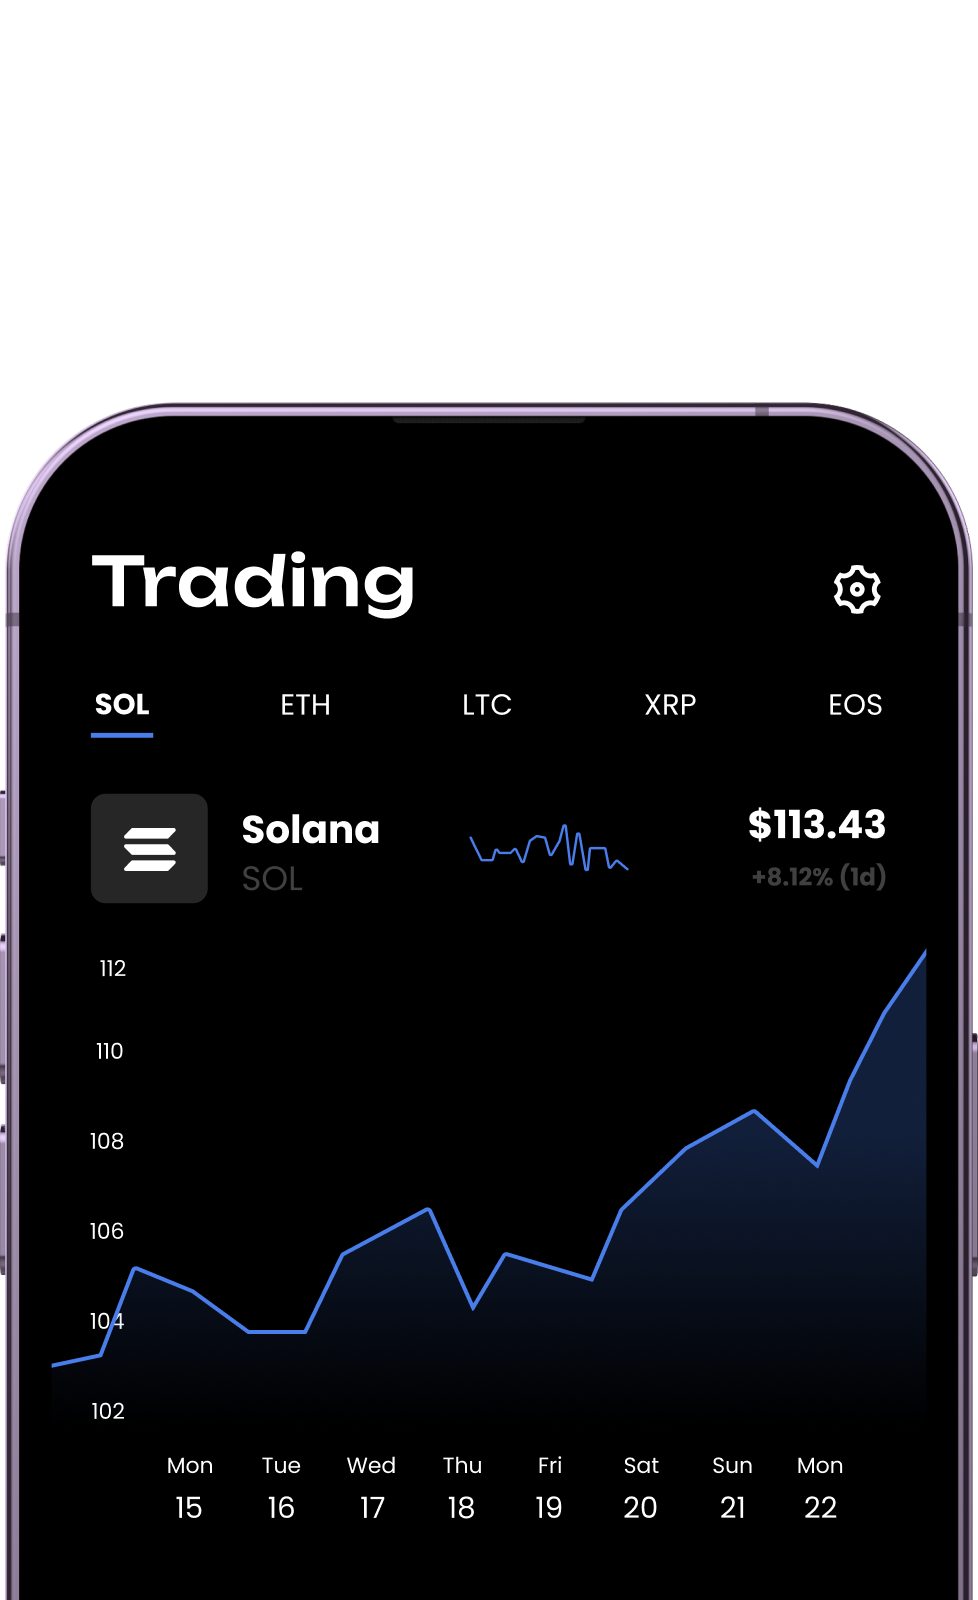
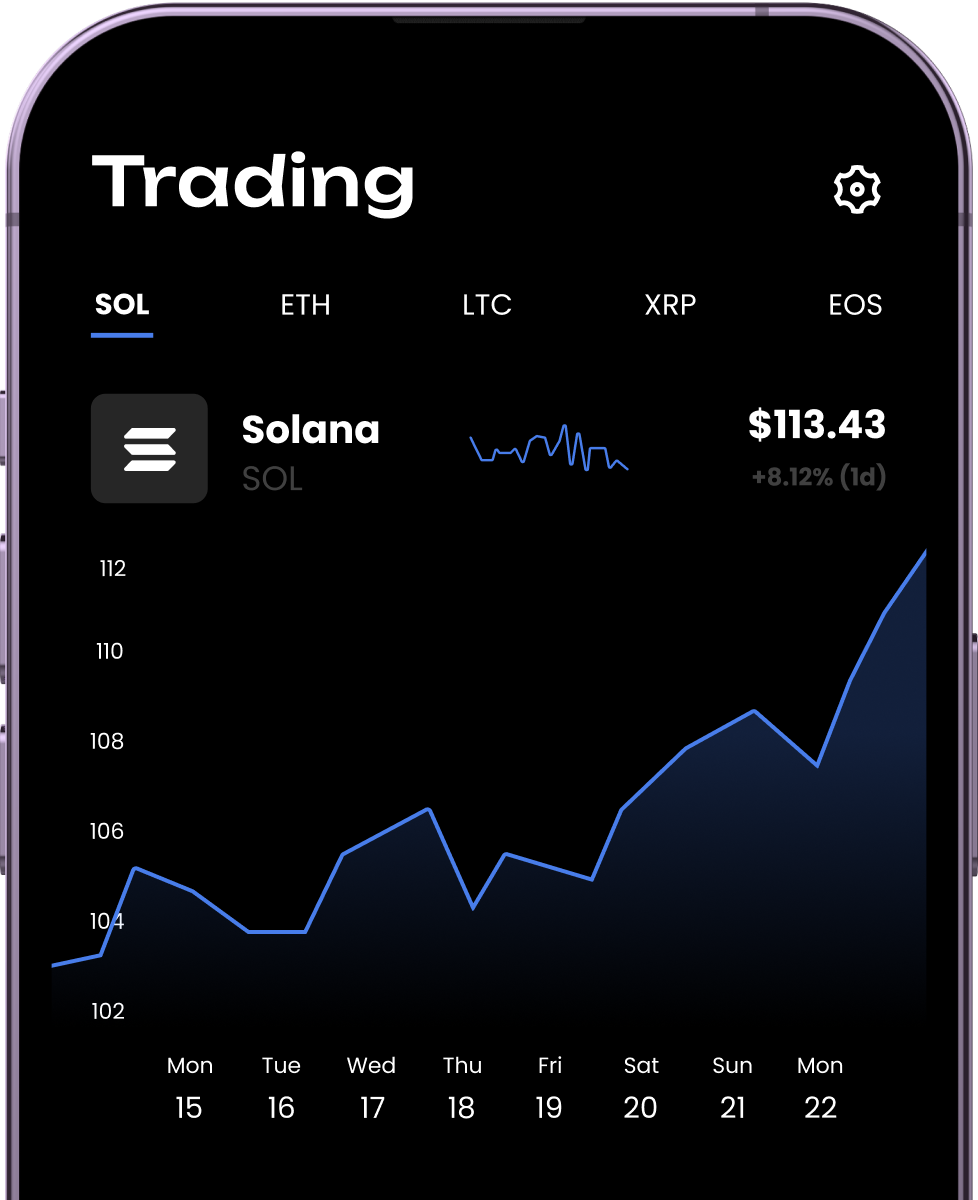
update: responsive for landing

diff --git a/src/app/(landing)/page.tsx b/src/app/(landing)/page.tsx
@@ -10,24 +10,47 @@ const RootPage: FC = () => {
     <div
       className={cn(
         "grid",
-        "grid-rows-[max-content_1fr]",
-        "max-w-[1200px]",
+        "mobile:grid-rows-[max-content_max-content]",
+        "not_mobile:grid-rows-[max-content_1fr]",
+        "mobile:content-center",
+        "max-w-[1280px]",
+        "items-between",
         "w-full",
         "mx-auto",
+        "px-[40px]",
         "pt-[60px]",
         "h-[100vh]",
         "overflow-hidden",
       )}
     >
-      <div className={cn("flex", "justify-between", "mb-[70px]")}>
-        <Image src="/images/logo.svg" alt="4X logo" width={798} height={66} />
+      <div
+        className={cn(
+          "flex",
+          "flex-nowrap",
+          "desktop:justify-between",
+          "not_desktop:flex-col",
+          "gap-[32px]",
+          "mb-[70px]",
+        )}
+      >
+        <div
+          className={cn(
+            "relative",
+            "w-full",
+            "max-w-[798px]",
+            "aspect-[798/66]",
+            "mobile:mx-auto",
+          )}
+        >
+          <Image src="/images/logo.svg" alt="4X logo" fill />
+        </div>
         <span
           className={cn(
-            "text-[2.4rem]",
-            "leading-[1.5]",
             "font-[family-name:var(--unbounded-text-font)]",
-            "text-[2.4rem]",
             "font-[200]",
+            "not_phone:text-[2.4rem]",
+            "phone:text-[1.6rem]",
+            "mobile:text-center",
             "leading-[1.6]",
             "text-white",
             "whitespace-pre-wrap",
@@ -36,20 +59,30 @@ const RootPage: FC = () => {
           {`Disrupting Forex Industry\nwith Web3 Tech`}
         </span>
       </div>
-      <div className={cn("flex", "h-full", "justify-between")}>
-        <div className={cn("relative", "w-[489px]", "h-full")}>
+      <div className={cn("flex", "h-full", "justify-between", "gap-[32px]")}>
+        <div className={cn("phone:hidden", "tablet:hidden")}>
           <Image
-            className={cn("object-cover", "object-bottom")}
+            className={cn(
+              "absolute",
+              "object-cover",
+              "object-top",
+              "w-full",
+              "max-w-[489px]",
+              "aspect-[489/598]",
+            )}
             src="/images/phone-mockup.png"
             alt="Phone mockup"
-            fill
+            width={489}
+            height={598}
           />
         </div>
         <div
           className={cn(
             "grid",
-            "max-w-[386px]",
-            "flex-1",
+            "mobile:w-full",
+            "mobile:max-w-[386px]",
+            "mobile:mx-auto",
+            "not_mobile:w-[386px]",
             "gap-[32px]",
             "pb-[106px]",
             "self-end",

diff --git a/tailwind.config.js b/tailwind.config.js
@@ -34,6 +34,34 @@ module.exports = {
       normal: "1.4",
       loose: "1.45",
     },
+    screens: {
+      phone: {
+        max: "639px",
+      },
+      not_phone: {
+        min: "640px",
+      },
+      tablet: {
+        min: "640px",
+        max: "1023px",
+      },
+      mobile: {
+        max: "1023px",
+      },
+      not_mobile: {
+        min: "1024px",
+      },
+      laptop: {
+        min: "1024px",
+        max: "1279px",
+      },
+      not_desktop: {
+        max: "1279px",
+      },
+      desktop: {
+        min: "1280px",
+      },
+    },
   },
   plugins: [
     require("@pyncz/tailwind-mask-image"),
